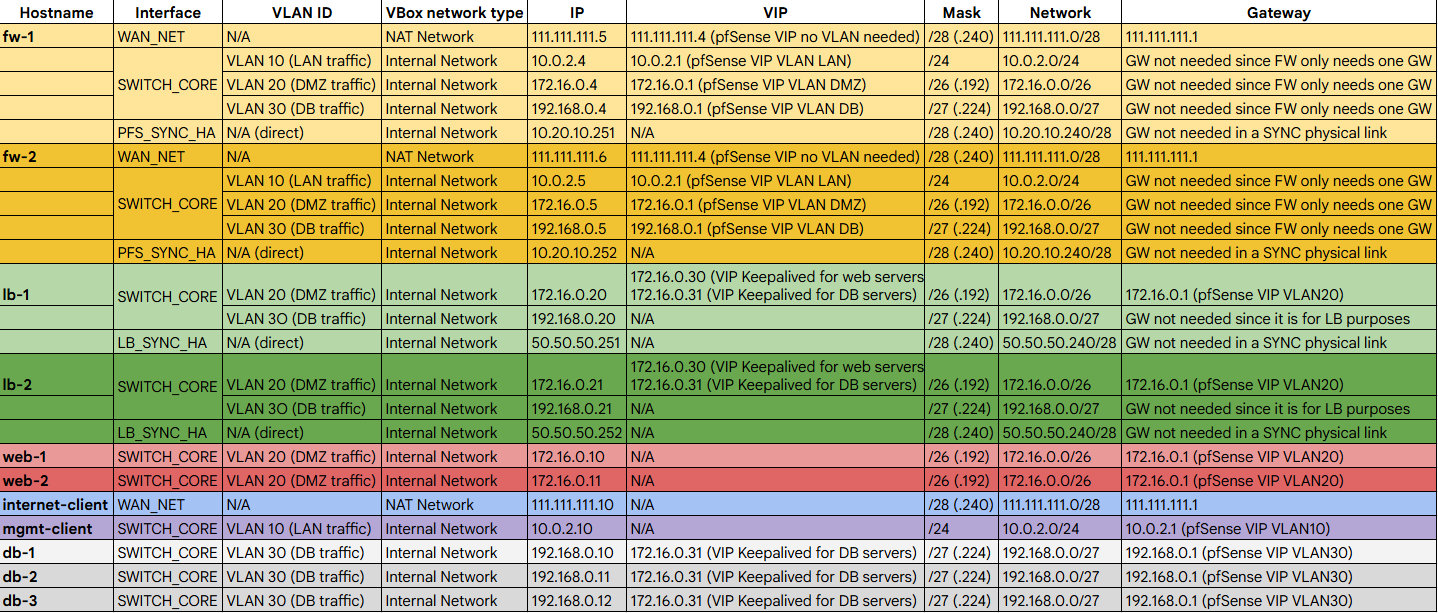
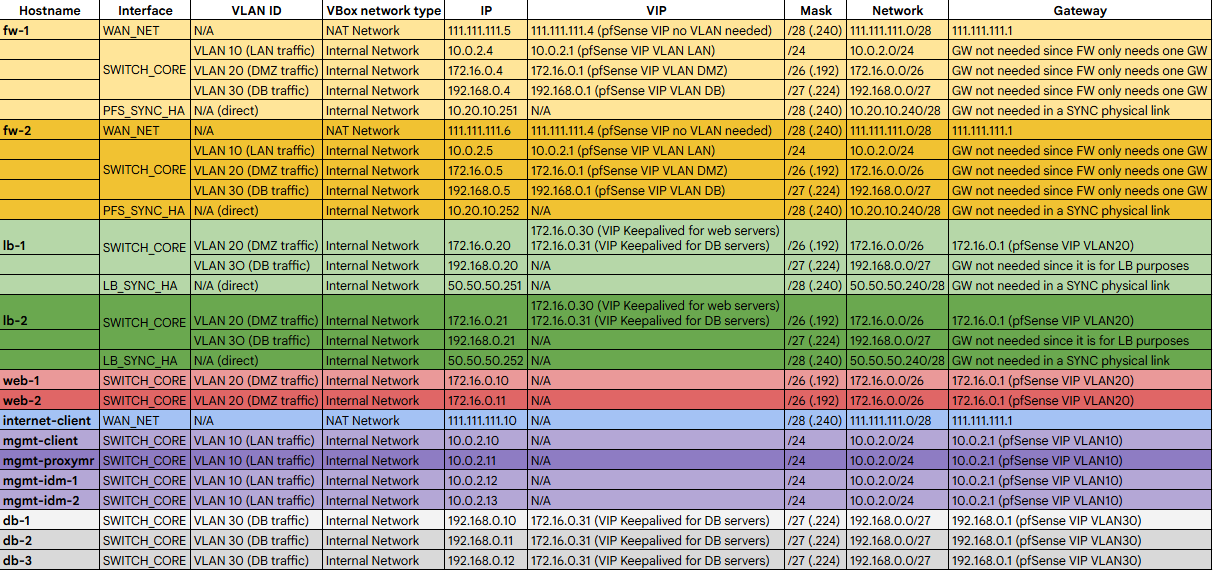
docs: content changed to display the whole project

diff --git a/projects/1-professional-it-infrastructure/README.md b/projects/1-professional-it-infrastructure/README.md
@@ -3,37 +3,72 @@ type: laboratory
 status: ✅ completed
 tags: [networking, sysadmin, security,]
 ---
+# Professional IT infrastructure
 
-# 🚀 Lab title: deploying a professional IT infrastructure
+## 📋 Introduction
 
-## 📋 Overview
+> In this lab, the deployment of a professional IT infrastructure will be shown.
+>
+> This is a real lab that I deployed while studying Computer Systems and Network Administration (educational level of "Ciclo Formativo de Grado Superior" in Spain). This lab took me hours and I am very proud of it. I still keep a backup of all the VMs.
+## Infrastructure that will be deployed
 
-> With this lab, the deployment procedure of a professional IT infrastructure will be shown
-
-## 📑 Table of contents
-
-* [1. Technical stack](#technical-stack)
-* [2. Topology diagram and IP addresses](#topology-diagram-and-ip-addresses)
-* [3. Implementation step-by-step](#implementation-step-by-step)
-    * [3.1. Phase 1](#phase-1)
-
-## Technical stack
-
-- **Firewall:** pfSense cluster
+- **Firewall and VPN:** pfSense cluster (2 nodes)
 - **Database:** MariaDB Galera Cluster (3 nodes)
-- **Load balancing:** HAProxy and Keepalived for VIPs
-- **Web servers:** Apache
+- **Load balancing:** HAProxy and Keepalived for VIPs (2 nodes)
+- **Web servers:** Apache (2 nodes)
+- **IAM and DNS:** FreeIPA (2 nodes)
+- **Web filtering:** Squid proxy (1 node)
+- **Management:** management client to manage the whole infrastructure (1 node)
+- **Other:** internet client to connect to the infrastructure via VPN (1 node)
 - **Segmentation:** IEEE 802.1Q VLANs (VLAN 10, 20, 30)
-- **Hypervisor:** VirtualBox (with Promiscuous Mode enabled for HA traffic)
-
-## Topology diagram and IP addresses
+- **Hypervisor to run all the servers:** VirtualBox (with Promiscuous Mode enabled for HA traffic)
+## Networking topology and IP addresses
 
 ![Network topology](./media/networking-topology.png)
 
 ![IP addresses](./media/ip-addresses.png)
 
-## Implementation step-by-step
+## Summarized step-by-step procedure of implementation
 
-### Phase 1
+### Phase 1 - Initial configuration of the firewalls
 
-Text.
+Download the pfSense ISO image and create two virtual machines for it in VirtualBox. Those two virtual machines must have three network adapters: one for WAN, the other for the internal network (VLANs) and the last one for the future HA with another pfSense node.
+### Phase 2 - Create the VMs for the web servers, load balancers, internet-client and mgmt-client
+
+Download the ISO images of light Linux distributions (Debian 13 without GUI). Once the OS deployed, install the packages that allow the lab simulate the VLAN tagging. Furthermore, it is necessary to assign static IPs to the servers following the logic of the addressing tab.
+### Phase 3 - Configure the firewall cluster
+
+Create the basic allow rules and set up CARP for high availability between firewall nodes. The rules must be scalable and follow good practices. A network firewall by default denies all networking traffic of the directly connected interfaces. Therefore, it is necessary to create basic allow rules.
+### Phase 4 - Configure the web cluster
+
+The two nodes will have Apache installed as well as GlusterFS to locate resources in a single logical shared space. The content of the web page will be a basic counter that will increment itself after every time the page refreshes (both nodes will display the same information when refreshing).
+### Phase 5 - Configure the load balancing cluster
+
+Install HAProxy and Keepalived for VIPs. A self-signed certificate has to be generated in the two load balancers, as well as a maintenance page. It is important to implement a robust configuration file. After deploying, it is necessary to test that both IPs display the page with HTTPS.
+### Phase 6 - Execute failover test for the created servers so far
+
+This is where Keepalived does its work. What I did was creating a NAT rule in the firewall to make the load balancer VIP for the web cluster accessible. After every test, it is necessary to check that there is no split-brain in Keepalived. This is achived when there's an appropriate configuration.
+### Phase 7 - Deploy and configure the database servers
+
+As done in the initial stage, it is necessary to deploy three Linux servers. This time, MariaDB must be installed. Moreover, configure basic security settings using the command "mysql_secure_installation". For the moment, no configuration regarding HA is needed.
+### Phase 8 - Configure the firewall for the database servers
+
+It is necessary to create the VLAN in pfSense and the rules that will allow restricted internet access to the database servers. As well as the rules to manage the servers via SSH from the machine "mgmt-client". This step is done after any new group of servers or network segment is created.
+### Phase 9 - Implement high availability in the database servers
+
+Here is where MariaDB Galera Cluster with HAProxy takes the protagonism. MariaDB Galera Cluster requires minimum three nodes to operate. After implementing the MariaDB HA solution, it is essential to verify synchronous replication and correct quorum status among all the nodes.
+### Phase 10 - Make the web servers utilize the remote databases
+
+Instead of a local storage location or GlusterFS, now it is time for the web servers to point to the database cluster VIP for storing data. In this step the web code must be changed to implement PHP. Here I changed the counter for a log of connections that I will use to test high availability.
+### Phase 11 - Install OpenVPN in the firewall cluster
+
+With the open source solution of OpenVPN, I will make the whole infrastructure accessible by the server "internet-client". This is one of the most powerful stages of the project where remote and secure connectivity can be established. As well as in real life, the VPN is in the firewall cluster.
+### Phase 12 - Make the remote client able to connect to the infrastructure via VPN
+
+As simple as transferring the credentials to the remote client and creating a user for him in the VPN. It is important that the remote client also gets the DNS IPs for the name resolution. Otherwise, problems when managing the infrastructure could be had.
+### Phase 13 - Web filtering with Squid proxy
+
+At this stage I wanted to restrict more the internet access for the web servers, load balancers and DB. The proxy was included within the OS level in all the servers mentioned. It is important to opt for a default deny in the proxy for servers which are in a semi-trusted zone.
+### Phase 14 - FreeIPA
+
+Thanks to FreeIPA I centralized management of users and DNS resolutions in a single cluster. FreeIPA works in an active-active logic and it is very easy to set up once the servers have the basic requirements regarding IP addressing and basic DNS resolution.
